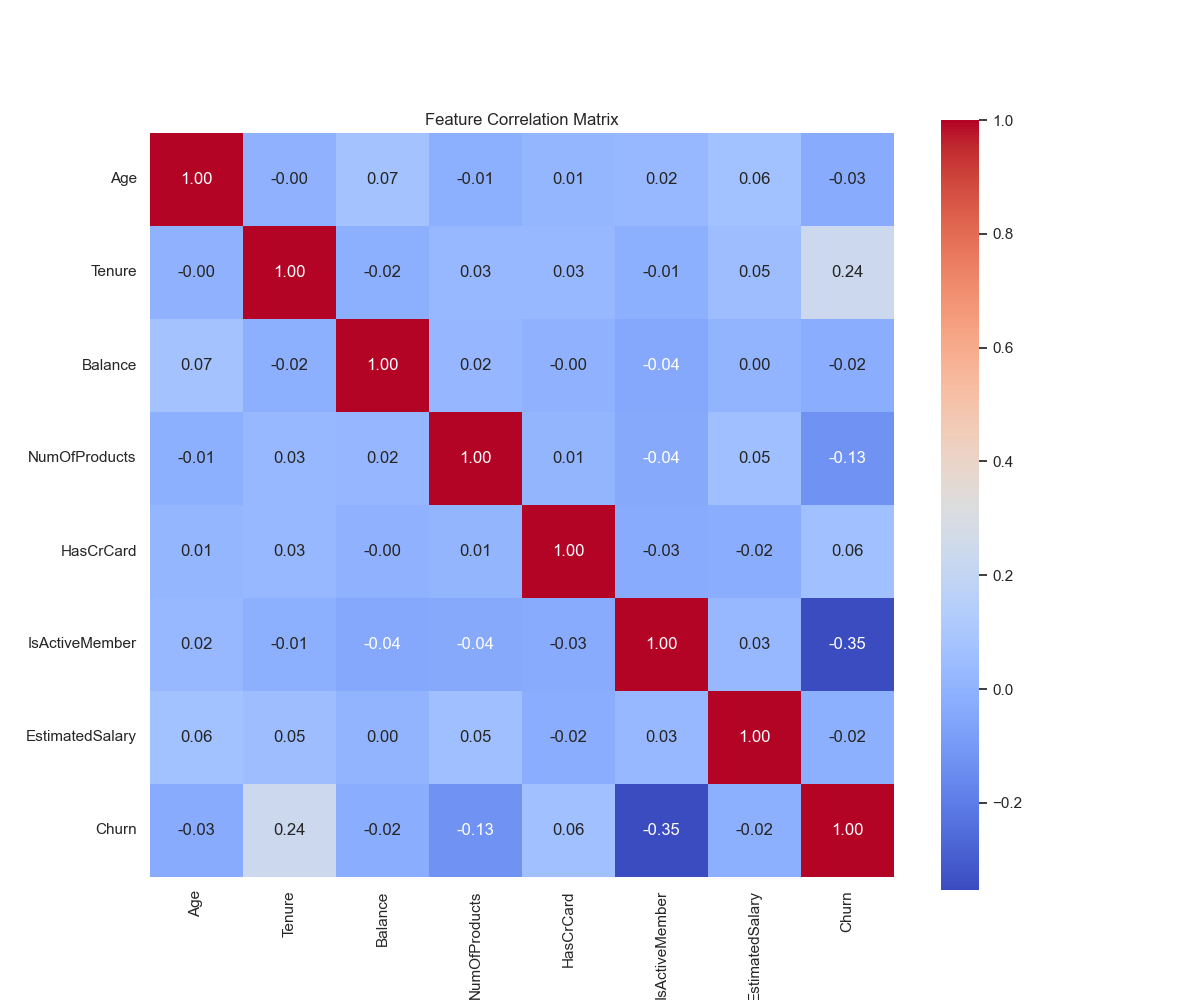
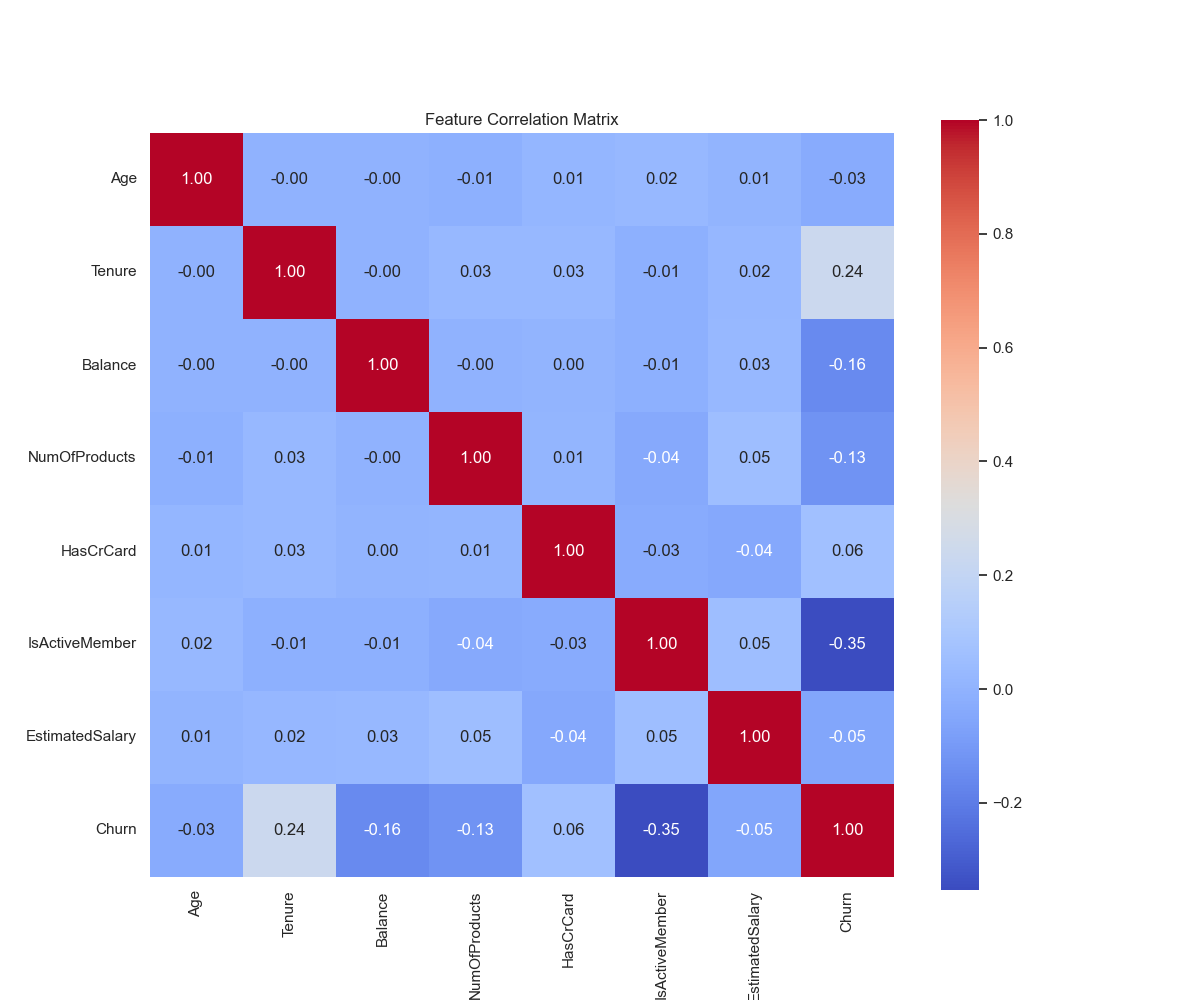
finalv1

diff --git a/scripts/data_cleaner.py b/scripts/data_cleaner.py
@@ -46,25 +46,19 @@ def handle_gender(df):
     
     return df
 def handle_balance(df):
-    # Ensure 'Balance' is numeric, coercing errors to NaN
     df['Balance'] = pd.to_numeric(df['Balance'], errors='coerce')
-    
     df.loc[df['Balance'] < 0, 'Balance'] = 0
-    
-    # Fill missing balance values with median (better than mean for financial data)
-    balance_median = df['Balance'].median()
-    df['Balance'] = df['Balance'].fillna(balance_median)
+    df = handle_outliers_iqr(df, 'Balance')  # Add this line
+    df['Balance'] = df['Balance'].fillna(df['Balance'].median())
     return df
 
 
 #handle estimated salary
 def handle_estimated_salary(df):
-    # Ensure 'EstimatedSalary' is numeric, coercing errors to NaN
     df['EstimatedSalary'] = pd.to_numeric(df['EstimatedSalary'], errors='coerce')
-    # Replace negative salaries with the median salary
     median_salary = df['EstimatedSalary'].median()
     df.loc[df['EstimatedSalary'] < 0, 'EstimatedSalary'] = median_salary
-    # Fill any remaining missing salaries with median
+    df = handle_outliers_iqr(df, 'EstimatedSalary')  # Add this line
     df['EstimatedSalary'] = df['EstimatedSalary'].fillna(median_salary)
     return df
 
@@ -124,6 +118,18 @@ def handle_isactive_member(df):
     df['IsActiveMember'] = df['IsActiveMember'].astype(int)
     return df
 
+def handle_outliers_iqr(df, column):
+    """Remove outliers using IQR method"""
+    Q1 = df[column].quantile(0.25)
+    Q3 = df[column].quantile(0.75)
+    IQR = Q3 - Q1
+    lower = Q1 - 1.5 * IQR
+    upper = Q3 + 1.5 * IQR
+    
+    # Cap outliers
+    df[column] = df[column].clip(lower=lower, upper=upper)
+    return df
+
 def clean_data(file_path):
     df = load_data(file_path)
     df = handle_duplicates(df)
@@ -134,8 +140,9 @@ def clean_data(file_path):
     df = handle_crcard(df)
     df = handle_churn(df)
     df = handle_isactive_member(df)
-    # df = calculate_churn_status(df)
-    # df = add_churn_indicators(df)
+    df = handle_outliers_iqr(df, 'Age')
+    df = handle_outliers_iqr(df, 'Balance')
+    df = handle_outliers_iqr(df, 'EstimatedSalary')
 
     return df
 

diff --git a/scripts/model_training.py b/scripts/model_training.py
@@ -12,11 +12,6 @@ import warnings
 warnings.filterwarnings('ignore')
 from data_loader import load_data
 
-# def load_encoded_data():
-#         df = load_data('../data/processed/churn_features_encoded.csv')
-#         print(f"Encoded data loaded successfully with shape: {df.shape}")
-#         print(f"Features: {list(df.columns)}")
-#         return df
 
 def prepare_features(df):
     """Prepare features for modeling"""
@@ -42,10 +37,10 @@ def train_random_forest_model(X_train, X_test, y_train, y_test):
     
     # Train Random Forest model
     rf_model = RandomForestClassifier(
-        n_estimators=100,
-        max_depth=10,
-        min_samples_split=5,
-        min_samples_leaf=2,
+        n_estimators=200,
+        max_depth=15,
+        min_samples_split=3,
+        min_samples_leaf=1,
         random_state=42
     )
     

diff --git a/scripts/EDA.py b/scripts/EDA.py
@@ -15,14 +15,14 @@ warnings.filterwarnings('ignore')
 from data_loader import load_data
 
 def basic_data_visualization(data='../data/processed/churn_cleaned.csv'):
-    """Minimal ML Pipeline with Feature Engineering and Modeling"""
-    print("=== feature engineering Pipeline ===")
+    """Minimal ML Pipeline with EDA """
+    print("=== EDA ===")
     
     # 1. Load data
     df = load_data(data)
     print(f"Loaded data with shape: {df.shape}")
 
-    #feature engineering 
+   
     # age distribution plot 1
     plt.figure(figsize=(12, 8))
     sns.set_theme(style="whitegrid")  # Updated from sns.set
